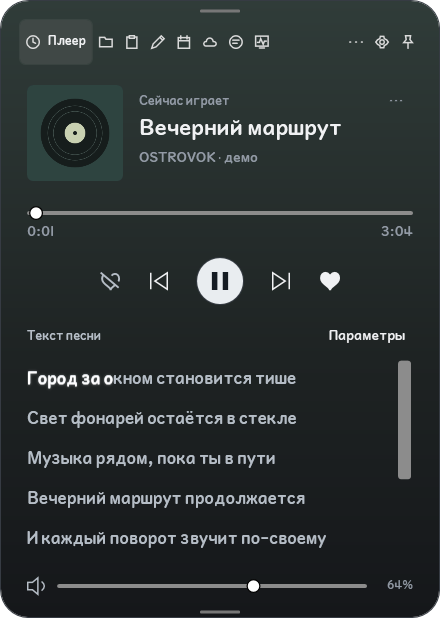
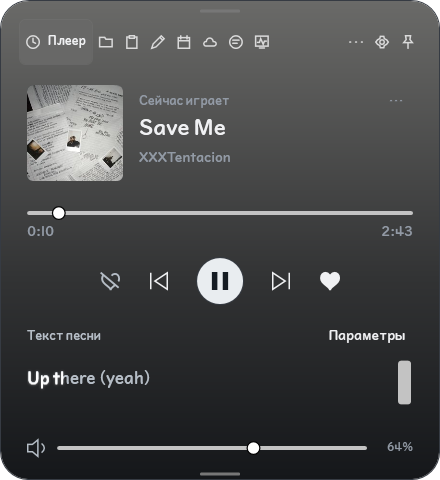
Replace showcase track with XXXTentacion Save Me

diff --git a/ShowcaseCapture.cs b/ShowcaseCapture.cs
@@ -1,5 +1,6 @@
 using System.Windows.Media;
 using System.Windows.Media.Imaging;
+using System.Text.Json;
 using DesktopIsland.Services;
 
 namespace DesktopIsland;
@@ -12,7 +13,7 @@ public partial class MainWindow
         Directory.CreateDirectory(output);
         try
         {
-            timer.Stop(); lyricTimer.Stop(); leaveTimer.Stop();
+            timer.Stop(); lyricTimer.Stop(); leaveTimer.Stop(); IsHitTestVisible = false;
             media.Updated -= UpdateMedia; media.Dispose();
             CompositionTarget.Rendering -= RenderCompactLyrics;
             Motion.VerificationOverride = true;
@@ -33,22 +34,34 @@ public partial class MainWindow
                 dc.DrawEllipse(new SolidColorBrush(Color.FromRgb(22, 29, 28)), null, new Point(120, 120), 5, 5);
             }
             var cover = new RenderTargetBitmap(240, 240, 96, 96, PixelFormats.Pbgra32); cover.Render(drawing); cover.Freeze();
-            typeof(MediaService).GetProperty(nameof(media.Source))!.SetValue(media, "ru.yandex.desktop.music");
-            yandexPlayback = new YandexLyricsBridge.PlaybackState(0, .64, "showcase", true, false, true, true, "Вечерний маршрут", "OSTROVOK · демо", 184, true);
-            media.UpdateNativePlayback(yandexPlayback);
             var coverEncoder = new PngBitmapEncoder(); coverEncoder.Frames.Add(BitmapFrame.Create(cover));
             using var coverStream = new MemoryStream(); coverEncoder.Save(coverStream); coverStream.Position = 0;
             var coverImage = new BitmapImage(); coverImage.BeginInit(); coverImage.CacheOption = BitmapCacheOption.OnLoad; coverImage.StreamSource = coverStream; coverImage.EndInit(); coverImage.Freeze();
+            string trackTitle = "Вечерний маршрут", trackArtist = "OSTROVOK · демо";
+            double trackDuration = 184, excerptStart = 0;
+            var lyrics = new LyricsResult("Демонстрационный текст", [new(0, "Город за окном становится тише"), new(3, "Свет фонарей остаётся в стекле"), new(6, "Музыка рядом, пока ты в пути"), new(9, "Вечерний маршрут продолжается"), new(12, "И каждый поворот звучит по-своему"), new(15, "Мы оставляем день позади"), new(18, "Город за окном становится тише")]);
+            string? trackFile = Environment.GetCommandLineArgs().SkipWhile(x => x != "--showcase-track").Skip(1).FirstOrDefault();
+            if (trackFile != null)
+            {
+                using var fixture = JsonDocument.Parse(File.ReadAllText(trackFile)); var track = fixture.RootElement;
+                trackTitle = track.GetProperty("Title").GetString()!; trackArtist = track.GetProperty("Artist").GetString()!; trackDuration = track.GetProperty("Duration").GetDouble();
+                coverImage = new BitmapImage(); coverImage.BeginInit(); coverImage.CacheOption = BitmapCacheOption.OnLoad; coverImage.UriSource = new Uri(Path.Combine(Path.GetDirectoryName(Path.GetFullPath(trackFile))!, track.GetProperty("Cover").GetString()!)); coverImage.EndInit(); coverImage.Freeze();
+                var lines = track.GetProperty("Lines").EnumerateArray().Select(x => new LyricLine(x.GetProperty("Seconds").GetDouble(), x.GetProperty("Text").GetString()!, x.TryGetProperty("EndSeconds", out var end) ? end.GetDouble() : null)).ToArray();
+                lyrics = new LyricsResult("Короткий фрагмент текста", lines); excerptStart = lines.FirstOrDefault()?.Seconds ?? 0;
+                settings.PlayerHeight = 480;
+            }
+            typeof(MediaService).GetProperty(nameof(media.Source))!.SetValue(media, "ru.yandex.desktop.music");
+            yandexPlayback = new YandexLyricsBridge.PlaybackState(0, .64, "showcase", true, false, true, true, trackTitle, trackArtist, trackDuration, true);
+            media.UpdateNativePlayback(yandexPlayback);
             typeof(MediaService).GetProperty(nameof(media.Artwork))!.SetValue(media, coverImage);
             typeof(MediaService).GetProperty(nameof(media.ArtworkReady))!.SetValue(media, true);
             UpdateMedia();
-            var lyrics = new LyricsResult("Демонстрационный текст", [new(0, "Город за окном становится тише"), new(3, "Свет фонарей остаётся в стекле"), new(6, "Музыка рядом, пока ты в пути"), new(9, "Вечерний маршрут продолжается"), new(12, "И каждый поворот звучит по-своему"), new(15, "Мы оставляем день позади"), new(18, "Город за окном становится тише")]);
             ShowLyrics(lyrics, lyrics.Status); UpdateLyricPosition(0); RefreshIdleContent();
             updatingVolume = true; Volume.Value = 64; VolumeText.Text = "64%"; updatingVolume = false;
             await Task.Delay(1200); UpdateTrackIntroduction(); RefreshIdleContent();
             Capture(Path.Combine(output, "compact.png"));
 
-            await Record("expansion", 110, 700, frame =>
+            await Record("expansion", 110, trackFile == null ? 700 : 560, frame =>
             {
                 if (frame == 15) SetExpanded(true);
                 if (frame == 85) SetExpanded(false);
@@ -56,10 +69,10 @@ public partial class MainWindow
             });
             SetExpanded(true); await AwaitShellAsync();
             HomePanel.Visibility = Visibility.Collapsed; MediaPanel.Visibility = Visibility.Visible;
-            UpdateLyricPosition(1); UpdateLayout(); Capture(Path.Combine(output, "player.png"));
-            await Record("lyrics", 150, 700, frame =>
+            UpdateLyricPosition(excerptStart + 1); UpdateLayout(); Capture(Path.Combine(output, "player.png"));
+            await Record("lyrics", 150, trackFile == null ? 700 : 560, frame =>
             {
-                double position = frame / 25d;
+                double position = excerptStart + frame / 25d;
                 UpdateLyricPosition(position); UpdateExpandedLyricProgress(position);
                 Elapsed.Text = FormatTime(position); Timeline.Value = position;
             });

diff --git a/docs/SHOWCASE.md b/docs/SHOWCASE.md
@@ -1,18 +1,18 @@
 # OSTROVOK в работе
 
-Записано в самом приложении. Трек, обложка, строки песни и сообщение — демонстрационные; личные данные в записи не используются.
+Записано в самом приложении с треком **XXXTentacion — Save Me**, обложкой альбома *17* и коротким фрагментом текста. Уведомление тестовое; личные сообщения и буфер обмена в записи не используются.
 
 ## Раскрытие острова
 
-![Раскрытие плеера и возвращение в компактный остров](media/expansion.gif)
+![Раскрытие плеера и возвращение в компактный остров](media/expansion.gif?v=save-me)
 
 ## Текст песни
 
-![Заполнение строки и переход к следующей](media/lyrics.gif)
+![Подсветка короткого фрагмента Save Me](media/lyrics.gif?v=save-me)
 
 ## Уведомление
 
-![Появление тестового сообщения Telegram и возврат к музыке](media/notification.gif)
+![Появление тестового сообщения Telegram и возврат к музыке](media/notification.gif?v=save-me)
 
 ## Скриншоты
 
@@ -22,16 +22,18 @@
 
 Компактный плеер:
 
-![Название трека, исполнитель и индикатор воспроизведения](media/compact.png)
+![Название трека, исполнитель и индикатор воспроизведения](media/compact.png?v=save-me)
 
 Раскрытый плеер:
 
-![Плеер со строками песни](media/player.png)
+![Плеер со строками песни](media/player.png?v=save-me)
 
 Уведомление:
 
-![Тестовое уведомление Telegram](media/notification.png)
+![Тестовое уведомление Telegram](media/notification.png?v=save-me)
 
 ## Повторить запись
 
 После сборки запустите `DesktopIsland.exe --showcase --output <папка>`. Режим использует отдельное временное хранилище и демонстрационные данные, создаёт PNG и последовательности кадров с частотой 25 кадров в секунду. Видеокадры записываются из WPF, без захвата рабочего стола.
+
+Для записи с Save Me добавьте `--showcase-track docs/media/showcase-track.json`. Метаданные и обложка получены из подключённого плеера; время короткого фрагмента сверено с LRCLIB. Запись не управляет воспроизведением музыки.

diff --git a/RELEASE_NOTES.md b/RELEASE_NOTES.md
@@ -2,9 +2,9 @@
 
 Dynamic Island как на iPhone — на компьютере с Windows. Бесплатно и с открытым исходным кодом.
 
-![Раскрытие острова](https://raw.githubusercontent.com/bernicetownsend1955/OSTROVOK/main/docs/media/expansion.gif)
+![Раскрытие острова с Save Me](https://raw.githubusercontent.com/bernicetownsend1955/OSTROVOK/main/docs/media/expansion.gif?v=save-me)
 
-[Скриншоты и остальные анимации](https://github.com/bernicetownsend1955/OSTROVOK/blob/main/docs/SHOWCASE.md). Записи сделаны в приложении с демонстрационным треком и тестовым уведомлением.
+[Скриншоты и остальные анимации](https://github.com/bernicetownsend1955/OSTROVOK/blob/main/docs/SHOWCASE.md). Записи сделаны в приложении с треком XXXTentacion — Save Me и тестовым уведомлением.
 
 Музыка, текст песни и уведомления в небольшом острове у края экрана. Раскройте его, чтобы управлять плеером, открыть буфер обмена, заметки или календарь.
 

diff --git a/README.md b/README.md
@@ -4,7 +4,7 @@ Dynamic Island как на iPhone — на компьютере с Windows. Бе
 
 OSTROVOK собирает музыку, текст песни и уведомления в небольшом острове у края экрана. Он раскрывается, когда нужны элементы управления, и сворачивается, когда вы возвращаетесь к работе.
 
-![Раскрытие и сворачивание OSTROVOK](docs/media/expansion.gif)
+![Раскрытие OSTROVOK с XXXTentacion — Save Me](docs/media/expansion.gif?v=save-me)
 
 [Скриншоты, текст песни и уведомления в движении](docs/SHOWCASE.md)
 

diff --git a/THIRD-PARTY-NOTICES.md b/THIRD-PARTY-NOTICES.md
@@ -7,3 +7,5 @@
 Тексты лицензий библиотек включены в папку `Licenses`.
 
 Названия Яндекс Музыки, Telegram и Discord принадлежат соответствующим владельцам.
+
+Обложка альбома *17* и короткий фрагмент **Save Me — XXXTentacion** используются в галерее для показа музыкального интерфейса. Они не входят в лицензию MIT на исходный код приложения. Обложка получена из подключённого плеера Яндекс Музыки.
